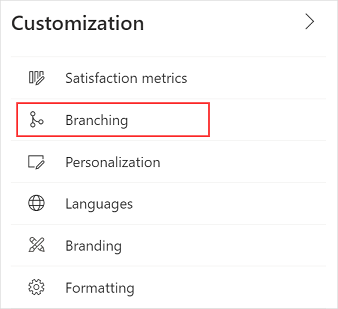
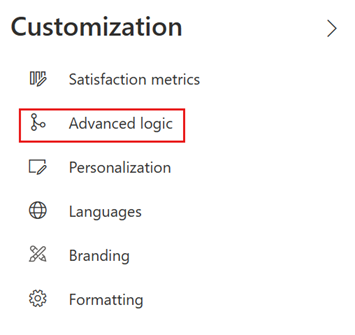
branching issue

diff --git a/cv-docs/create-branching-rule.md b/cv-docs/create-branching-rule.md
@@ -1,7 +1,7 @@
 ---
 title: "Create a branching rule for a survey | MicrosoftDocs"
 description: "Branching rules allow you to customize the flow of your survey. This topic explains how to create branching rules for a survey with Dynamics 365 Customer Voice."
-ms.date: 08/16/2022
+ms.date: 02/26/2024
 ms.topic: article
 author: sbmjais
 ms.author: shjais
@@ -19,11 +19,11 @@ For example, for the question **How likely is it that you would recommend us to 
 
 1. Open the survey.
 
-2. On the **Design** tab, select **Customization** at the right side of the page, and then select **Branching**.
+2. On the **Design** tab, select **Customization** at the right side of the page, and then select **Advanced logic**.
 
    ![Branching menu item.](media/branching-menu.png "Branching menu item")
 
-    If you haven't created any rules yet, the following message is displayed. Select **Customize**.
+    If you haven't created any rules yet, the following message is displayed. Select **Use advanced logic**.
 
     ![Customize survey flow button.](media/customize-survey-flow-button.png "Customize survey flow button") 
 
@@ -73,11 +73,12 @@ For example, for the question **How likely is it that you would recommend us to 
 
 10. In the **Select target** list, choose a target for the selected action:
 
-    - If you select **Show** or **Hide** as the action, you can select **Question** as the target.
+    - If you select **Show** or **Hide** as the action, you can select **Question** or **Section** as the target.
 
     - If you select **Navigate to** as the action, you can choose one of the following targets:
 
       - **Question**: Skip to a question based on the response to a question. The questions between the source and target questions are hidden from the respondent.
+      - **Section**: Skip to a section based on the response to a question. The questions between the source and target sections are hidden from the respondent.
       - **End of survey**: End the survey based on the response to a question.
       - **Chained survey**: Open a different survey, created by you, based on the response to a question.
       - **URL**: Open a website based on the response to a question. You must add `http://` to the URL for it to work properly.
